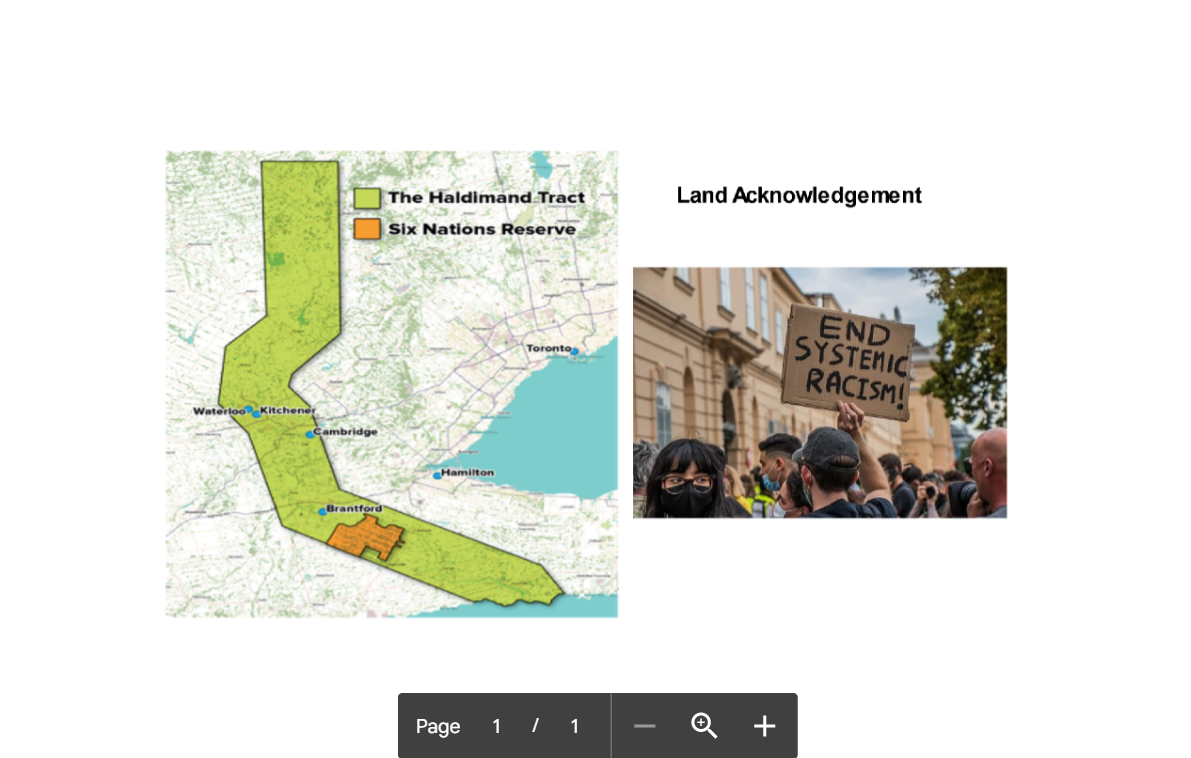
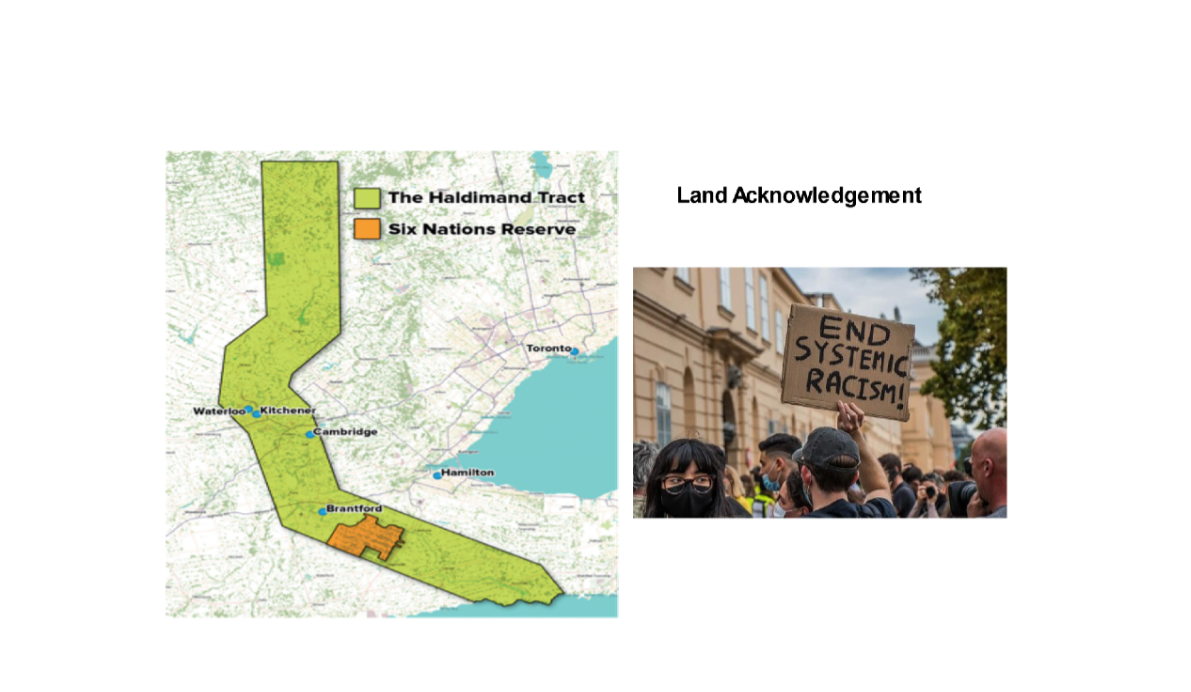
final page

Changed region(s): [[0.1243, 0.1821, 0.8699, 1.0], [0.5592, 0.2428, 0.7767, 0.3035]]

diff --git a/instructional.html b/instructional.html
@@ -48,11 +48,24 @@
                 <br />
         <div class="h2">Instructional Approaches</div>
             <p>
-                The three instructional approaches: Universal Design for Learning (UDL), differentiated instruction, and the tiered approach to prevention and intervention can address the need of diverse group of students. 
-                I remember my teaching experience at Sheridan college where I have taken chemistry labs and conducted lab experiments where I got the opportunity of appreciating the above-mentioned instructional approaches. Students need consistency, clarity, trusted technology, and accessible lessons. For consistency, I provided predictable course layout and teaching practices. For clarity, I posted clear expectations on D2L in each lesson module. For the trusted technology, I posted an explicit course outline with lesson plan on with detailed course navigation instructions. Learning schedule template and learning activity breakdown was be posted on D2L. Course material was presented in multiple formats as articles, textbooks, videos, podcasts, online activities, and textbook exercises. I adopted multiple ways of communication to interact with students through email and designated office hours. I provided additional time for disability related accommodation. A checklist was provided of what needs to be completed and in what order, including interim dues dates to support student planning and offered instructions in several locations to support convenient access. Students were given choice in submitting some assignments as written text, recorded video, audio file, voice over in power point. Weekly assignments were open for entire week. Students were informed promptly through emailing and updating course calendar and online course announcements for assignment due dates.
-                I adopted an inquiry-based learning approach and provided guided inquiry-based laboratory worksheets on the aspects of content, reasoning, calculation, analysis, interpretation of data, results, discussion, linguistics, and graphics. The students reacted positively to the use of this guided inquiry-based worksheet. This strategy worked out very well as students had plenty of scaffolding through the worksheet but there was no scaffolding while performing their experiments.  Students demonstrated their understanding and skills autonomously while performing lab experiments without scaffolding.
-                Before applying differentiate instruction, I can focus on one strategy of giving one worksheet with different levels of problem set of chapters. Some students will be able to solve basic level problems while some students can solve advanced level problems. In this way, I can assess the level of each student and accordingly Individual Education Plan (IEP) lesson plans can be created.
-                I strongly agree that effective differentiation requires close monitoring of students’ proficiency and therefore responsive teachers take time to design assessment with their students in mind. I liked the concept of tiering which ensures that assessment tasks are differentiated appropriately. For effective learning there should be a balance of written (write), performance (do), and oral (say) assessments and therefore I will try to make the content engaging by adopting three tiered components-Write, do and speak.
+              
+              The three instructional approaches: Universal Design for Learning (UDL), differentiated instruction, and the tiered approach to prevention and intervention can address the need of diverse group of students. 
+              </p>
+              <p>
+              
+              I remember my teaching experience at Sheridan college where I have taken chemistry labs and conducted lab experiments where I got the opportunity of appreciating the above-mentioned instructional approaches. Students need consistency, clarity, trusted technology, and accessible lessons. For consistency, I provided predictable course layout and teaching practices. For clarity, I posted clear expectations on D2L in each lesson module. For the trusted technology, I posted an explicit course outline with lesson plan on with detailed course navigation instructions.
+            </p>
+            <p>
+                     Learning schedule template and learning activity breakdown was be posted on D2L. Course material was presented in multiple formats as articles, textbooks, videos, podcasts, online activities, and textbook exercises. I adopted multiple ways of communication to interact with students through email and designated office hours. I provided additional time for disability related accommodation. A checklist was provided of what needs to be completed and in what order, including interim dues dates to support student planning and offered instructions in several locations to support convenient access. Students were given choice in submitting some assignments as written text, recorded video, audio file, voice over in power point. Weekly assignments were open for entire week. 
+                    </p>
+                    <p>
+                     Students were informed promptly through emailing and updating course calendar and online course announcements for assignment due dates.
+                    </p>       
+                    <p>
+                     I adopted an inquiry-based learning approach and provided guided inquiry-based laboratory worksheets on the aspects of content, reasoning, calculation, analysis, interpretation of data, results, discussion, linguistics, and graphics. The students reacted positively to the use of this guided inquiry-based worksheet. This strategy worked out very well as students had plenty of scaffolding through the worksheet but there was no scaffolding while performing their experiments.  Students demonstrated their understanding and skills autonomously while performing lab experiments without scaffolding.
+                    </p>
+                    <p>
+                     Before applying differentiate instruction, I can focus on one strategy of giving one worksheet with different levels of problem set of chapters. Some students will be able to solve basic level problems while some students can solve advanced level problems. In this way, I can assess the level of each student and accordingly Individual Education Plan (IEP) lesson plans can be created. I strongly agree that effective differentiation requires close monitoring of students’ proficiency and therefore responsive teachers take time to design assessment with their students in mind. I liked the concept of tiering which ensures that assessment tasks are differentiated appropriately. For effective learning there should be a balance of written (write), performance (do), and oral (say) assessments and therefore I will try to make the content engaging by adopting three tiered components-Write, do and speak.
             </p>
 
             </div>

diff --git a/classroom.html b/classroom.html
@@ -48,9 +48,20 @@
                 <br />
         <div class="h2">Classroom Management</div>
             <p>
-                Being a teacher candidate, I strongly believe that classroom management is an important aspect of effective teaching which not only enhances students' academic skills and competencies, but also social and emotional development. The classroom management not only includes how the teacher delivers the curriculum, but also how the students behave with others in the classroom and interact with the teacher. In my opinion, developing a respectful student teacher relationship is a very important characteristic for creating an effective learning environment. The relationship between student and teacher can be achieved through social supportive behaviours like emotional support, instrumental support, appraisal support and informational support. I can recall my Hindi language class as a grade 8 school student which I really enjoyed. My Hindi language teacher was awesome in explaining poetries. My teacher used to present the subject content in a very interesting way so that students would get engrossed in the poetry and could appreciate its content. He tried to put maximum effort into making the content interesting. While reciting the poetry, he used to walk forward and backward within the classroom with great gestures. He demonstrated wonderful teaching qualities which met my learning needs and I felt very connected. For me, his personality and teaching attributes had a significant impact. Due to his subject matter expertise and caring attitude about student’s individual needs, I used to respect him a lot and developed a respectful relationship with him. Respectful relationship between student and teacher creates a positive classroom climate which can be achieved by respecting student’s views, caring them, encouraging students to support each other and through with-it-ness.
-The extrinsic motivation method of rewarding students has temporary effect while intrinsic motivation method has long lasting effect. The outdated carrots and sticks approach can never create a lasting commitment to an action or a value. The intrinsic motivation method demands a lot of efforts to work out as the teacher must be proactive in identifying and solving problems for the students and do meaningful conversations.  In intrinsic motivation, the motivation is less about students doing great work but rather students feeling great about their work. Teacher must be proactive in identifying the challenges that might make a student’s work difficult and then to address them sincerely. In this way, students are engaged meaningfully in their work and are enthusiastic about their work.  The learning through operant conditioning, are powerful tools in promoting desirable behaviour, especially in the classroom. Through positive reinforcement, the desired behaviour of students can be achieved in the classroom. The positive classroom climate can be achieved by developing a respectful student teacher relationship.
-  
+
+              Being a teacher candidate, I strongly believe that classroom management is an important aspect of effective teaching which not only enhances students' academic skills and competencies, but also social and emotional development. The classroom management not only includes how the teacher delivers the curriculum, but also how the students behave with others in the classroom and interact with the teacher. In my opinion, developing a respectful student teacher relationship is a very important characteristic for creating an effective learning environment.
+            </p>
+            <p>
+              The relationship between student and teacher can be achieved through social supportive behaviours like emotional support, instrumental support, appraisal support and informational support. I can recall my Hindi language class as a grade 8 school student which I really enjoyed. My Hindi language teacher was awesome in explaining poetries. My teacher used to present the subject content in a very interesting way so that students would get engrossed in the poetry and could appreciate its content. He tried to put maximum effort into making the content interesting. While reciting the poetry, he used to walk forward and backward within the classroom with great gestures. 
+            </p>
+            <p>
+              He demonstrated wonderful teaching qualities which met my learning needs and I felt very connected. For me, his personality and teaching attributes had a significant impact. Due to his subject matter expertise and caring attitude about student’s individual needs, I used to respect him a lot and developed a respectful relationship with him. Respectful relationship between student and teacher creates a positive classroom climate which can be achieved by respecting student’s views, caring them, encouraging students to support each other and through with-it-ness.
+            </p>
+            <p>
+              The extrinsic motivation method of rewarding students has temporary effect while intrinsic motivation method has long lasting effect. The outdated carrots and sticks approach can never create a lasting commitment to an action or a value. The intrinsic motivation method demands a lot of efforts to work out as the teacher must be proactive in identifying and solving problems for the students and do meaningful conversations.  
+            </p>
+            <p>
+              In intrinsic motivation, the motivation is less about students doing great work but rather students feeling great about their work. Teacher must be proactive in identifying the challenges that might make a student’s work difficult and then to address them sincerely. In this way, students are engaged meaningfully in their work and are enthusiastic about their work.  The learning through operant conditioning, are powerful tools in promoting desirable behaviour, especially in the classroom. Through positive reinforcement, the desired behaviour of students can be achieved in the classroom. The positive classroom climate can be achieved by developing a respectful student teacher relationship.
             </p>
 
             </div>

diff --git a/teaching.html b/teaching.html
@@ -48,35 +48,12 @@
                 <br />
         <div class="h2">Teaching Philosophy</div>
             <p>
-                Teaching is one of the most rewarding professions which gives power to
-                make a difference in thousands of children’s life. It gives immense
-                pleasure and satisfaction as teaching is a great support system to
-                fulfill dreams of students. I feel so much powerful when I say to a
-                student that “I believe in you” and “You can do it”. Teaching is the
-                most prestigious profession as you are remembered by so many students on
-                which you have impacted positively. As a teacher, I feel that I am the
-                richest person in this world as what I invested in educating my
-                students, this society got them in returns as doctors, engineers,
-                industrialists, home makers, scientists, social activists, singers,
-                professors, teachers, etc. I strongly believe that in today’s globalized
-                world, cultural diversity is an essential element of sustainable
-                development which calls for revisioning of the educational system in
-                public schools to introduce a more effective method of teaching diverse
-                youth. An exceptional teacher understands that education is more beyond
-                academic excellence. In my opinion, school is a place where students not
-                only learn subjects but also life skills. Schooling is not simply a
-                teaching skill to students but rather developing self-knowledge which
-                helps them to live and understand this world. The teaching skills to
-                manage classes, maintain order and create learning experiences for
-                students are not meaningful unless they are tied to moral and ethical
-                values of teaching. Moral issues are integral part of school
-                organization and administration. Society exerts forces on schools and
-                schools become proxy for all things. What happens in society cascades in
-                schools and therefore, societal problems reflect on teachers’ onus in
-                return. In my opinion, teachers can change the society by leading the
-                society instead of following the society. I strongly believe that
-                teachers should cultivate a sense of community and social responsibility
-                beyond academic excellence for holistic development.
+              <p>
+              Teaching is one of the most rewarding professions which gives power to make a difference in thousands of children’s life. It gives immense pleasure and satisfaction as teaching is a great support system to fulfill dreams of students. I feel so much powerful when I say to a student that “I believe in you” and “You can do it”. Teaching is the most prestigious profession as you are remembered by so many students on which you have impacted positively. As a teacher, I feel that I am the richest person in this world as what I invested in educating my students, this society got them in returns as doctors, engineers, industrialists, home makers, scientists, social activists, singers, professors, teachers, etc. 
+            </p>
+            <p>
+       I strongly believe that in today’s globalized world, cultural diversity is an essential element of sustainable development which calls for revisioning of the educational system in public schools to introduce a more effective method of teaching diverse youth. An exceptional teacher understands that education is more beyond academic excellence. In my opinion, school is a place where students not only learn subjects but also life skills. Schooling is not simply a teaching skill to students but rather developing self-knowledge which helps them to live and understand this world. The teaching skills to manage classes, maintain order and create learning experiences for students are not meaningful unless they are tied to moral and ethical values of teaching. Moral issues are integral part of school organization and administration. Society exerts forces on schools and schools become proxy for all things. What happens in society cascades in schools and therefore, societal problems reflect on teachers’ onus in return. In my opinion, teachers can change the society by leading the society instead of following the society. I strongly believe that teachers should cultivate a sense of community and social responsibility beyond academic excellence for holistic development.
+
             </p>
 
             </div>

diff --git a/landack.html b/landack.html
@@ -47,6 +47,10 @@
                 <br/>
                 <br />
         <div class="h2">Land Acknowledgement</div>
+        <br />
+
+            <img src="images/landack.png" class="center">
+
             <p>
                 <ul>
                 <li>In the past, I lived in Quebec, Alberta and now I am living in Ontario. I have travelled to many parts of Canada from east to west. I acknowledge the enduring presence of Indigenous people wherever I lived. </li>
@@ -67,8 +71,6 @@
 
             </ul>
             </p>
-
-            <img src="images/landack.png" class="center">
 
             <br />
 
